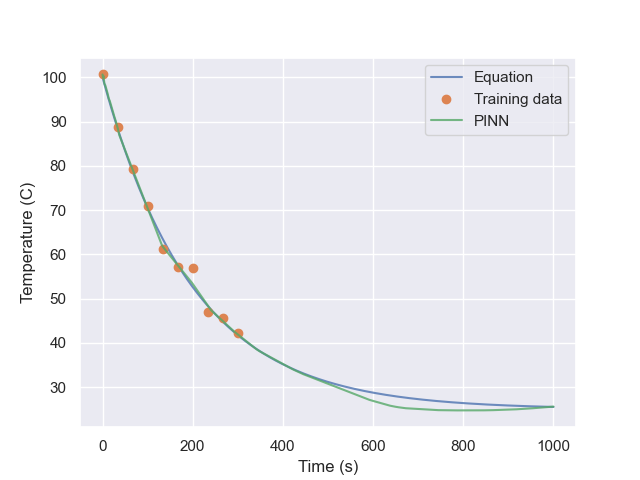
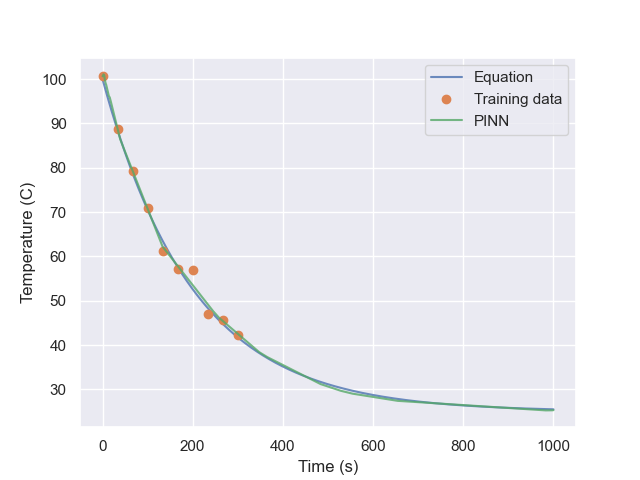
update

diff --git a/PINN/old_code/temp_pred_efi.py b/PINN/old_code/temp_pred_efi.py
@@ -5,7 +5,7 @@ import torch
 import torch.nn as nn
 import torch.optim as optim
 import seaborn as sns
-from PINN.common import BaseNetwork
+from PINN.common import BaseNetwork, SparseDNN
 
 DEVICE = torch.device('cuda' if torch.cuda.is_available() else 'cpu')
 
@@ -41,6 +41,7 @@ class Net(nn.Module):
         epochs=1000,
         loss=nn.MSELoss(),
         lr=1e-3,
+        sgld_lr=1e-3,
         loss2=None,
         loss2_weight=0.1,
     ) -> None:
@@ -51,23 +52,26 @@ class Net(nn.Module):
         self.loss2 = loss2
         self.loss2_weight = loss2_weight
         self.lr = lr
+        self.sgld_lr = sgld_lr
         self.net_arch = net_arch
         self.activation = nn.ReLU
 
         self.net = BaseNetwork(input_size=input_dim, output_size=output_dim, hidden_layers=net_arch, activation_fn=nn.ReLU)
+        
+        # self.inverse_net = SparseDNN(input_size=output_dim, output_size=input_dim, hidden_layers=net_arch, activation_fn=nn.ReLU)
 
 
     def forward(self, x):
         return self.net(x)
 
-    def fit(self, Xt, yt):
+    def fit(self, X, y):
         optimiser = optim.Adam(self.net.parameters(), lr=self.lr)
         self.train()
         losses = []
         for ep in range(self.epochs):
             optimiser.zero_grad()
-            outputs = self.forward(Xt)
-            loss = self.loss(yt, outputs)
+            outputs = self.forward(X)
+            loss = self.loss(y, outputs)
             if self.loss2:
                 loss += self.loss2_weight + self.loss2_weight * self.loss2(self)
             loss.backward()
@@ -92,12 +96,9 @@ temps = eq(times)
 
 # Make training data
 n_samples = 10
+obs_noise = 2
 t = torch.linspace(0, 300, 10).reshape(n_samples, -1)
-T = eq(t) +  2 * torch.randn(10).reshape(n_samples, -1)
-
-# print(t.shape, T.shape)
-# print(temps.shape, times.shape)
-# raise
+T = eq(t) +  obs_noise * torch.randn(10).reshape(n_samples, -1)
 
 
 
@@ -109,8 +110,9 @@ def physics_loss(model: torch.nn.Module):
     
     return torch.mean(pde**2)
 
-net_arch = [100, 100, 100, 100]
-net = Net(1,1, net_arch, loss2=physics_loss, epochs=10000, loss2_weight=1, lr=1e-4).to(DEVICE)
+# net_arch = [100, 100, 100, 100]
+net_arch = [64, 64]
+net = Net(1,1, net_arch, loss2=physics_loss, epochs=20000, loss2_weight=1, lr=1e-4).to(DEVICE)
 
 losses = net.fit(t, T)
 # plt.plot(losses)

diff --git a/PINN/old_code/temp_pred.py b/PINN/old_code/temp_pred.py
@@ -5,7 +5,7 @@ import torch
 import torch.nn as nn
 import torch.optim as optim
 import seaborn as sns
-from PINN.common import BaseNetwork
+from PINN.common import BaseNetwork, SparseDNN
 
 DEVICE = torch.device('cuda' if torch.cuda.is_available() else 'cpu')
 
@@ -60,14 +60,14 @@ class Net(nn.Module):
     def forward(self, x):
         return self.net(x)
 
-    def fit(self, Xt, yt):
+    def fit(self, X, y):
         optimiser = optim.Adam(self.net.parameters(), lr=self.lr)
         self.train()
         losses = []
         for ep in range(self.epochs):
             optimiser.zero_grad()
-            outputs = self.forward(Xt)
-            loss = self.loss(yt, outputs)
+            outputs = self.forward(X)
+            loss = self.loss(y, outputs)
             if self.loss2:
                 loss += self.loss2_weight + self.loss2_weight * self.loss2(self)
             loss.backward()
@@ -124,4 +124,4 @@ plt.plot(times, preds, alpha=0.8)
 plt.legend(labels=['Equation','Training data', 'PINN'])
 plt.ylabel('Temperature (C)')
 plt.xlabel('Time (s)')
-plt.savefig('temp_pred_efi.png')
+plt.savefig('temp_pred.png')
